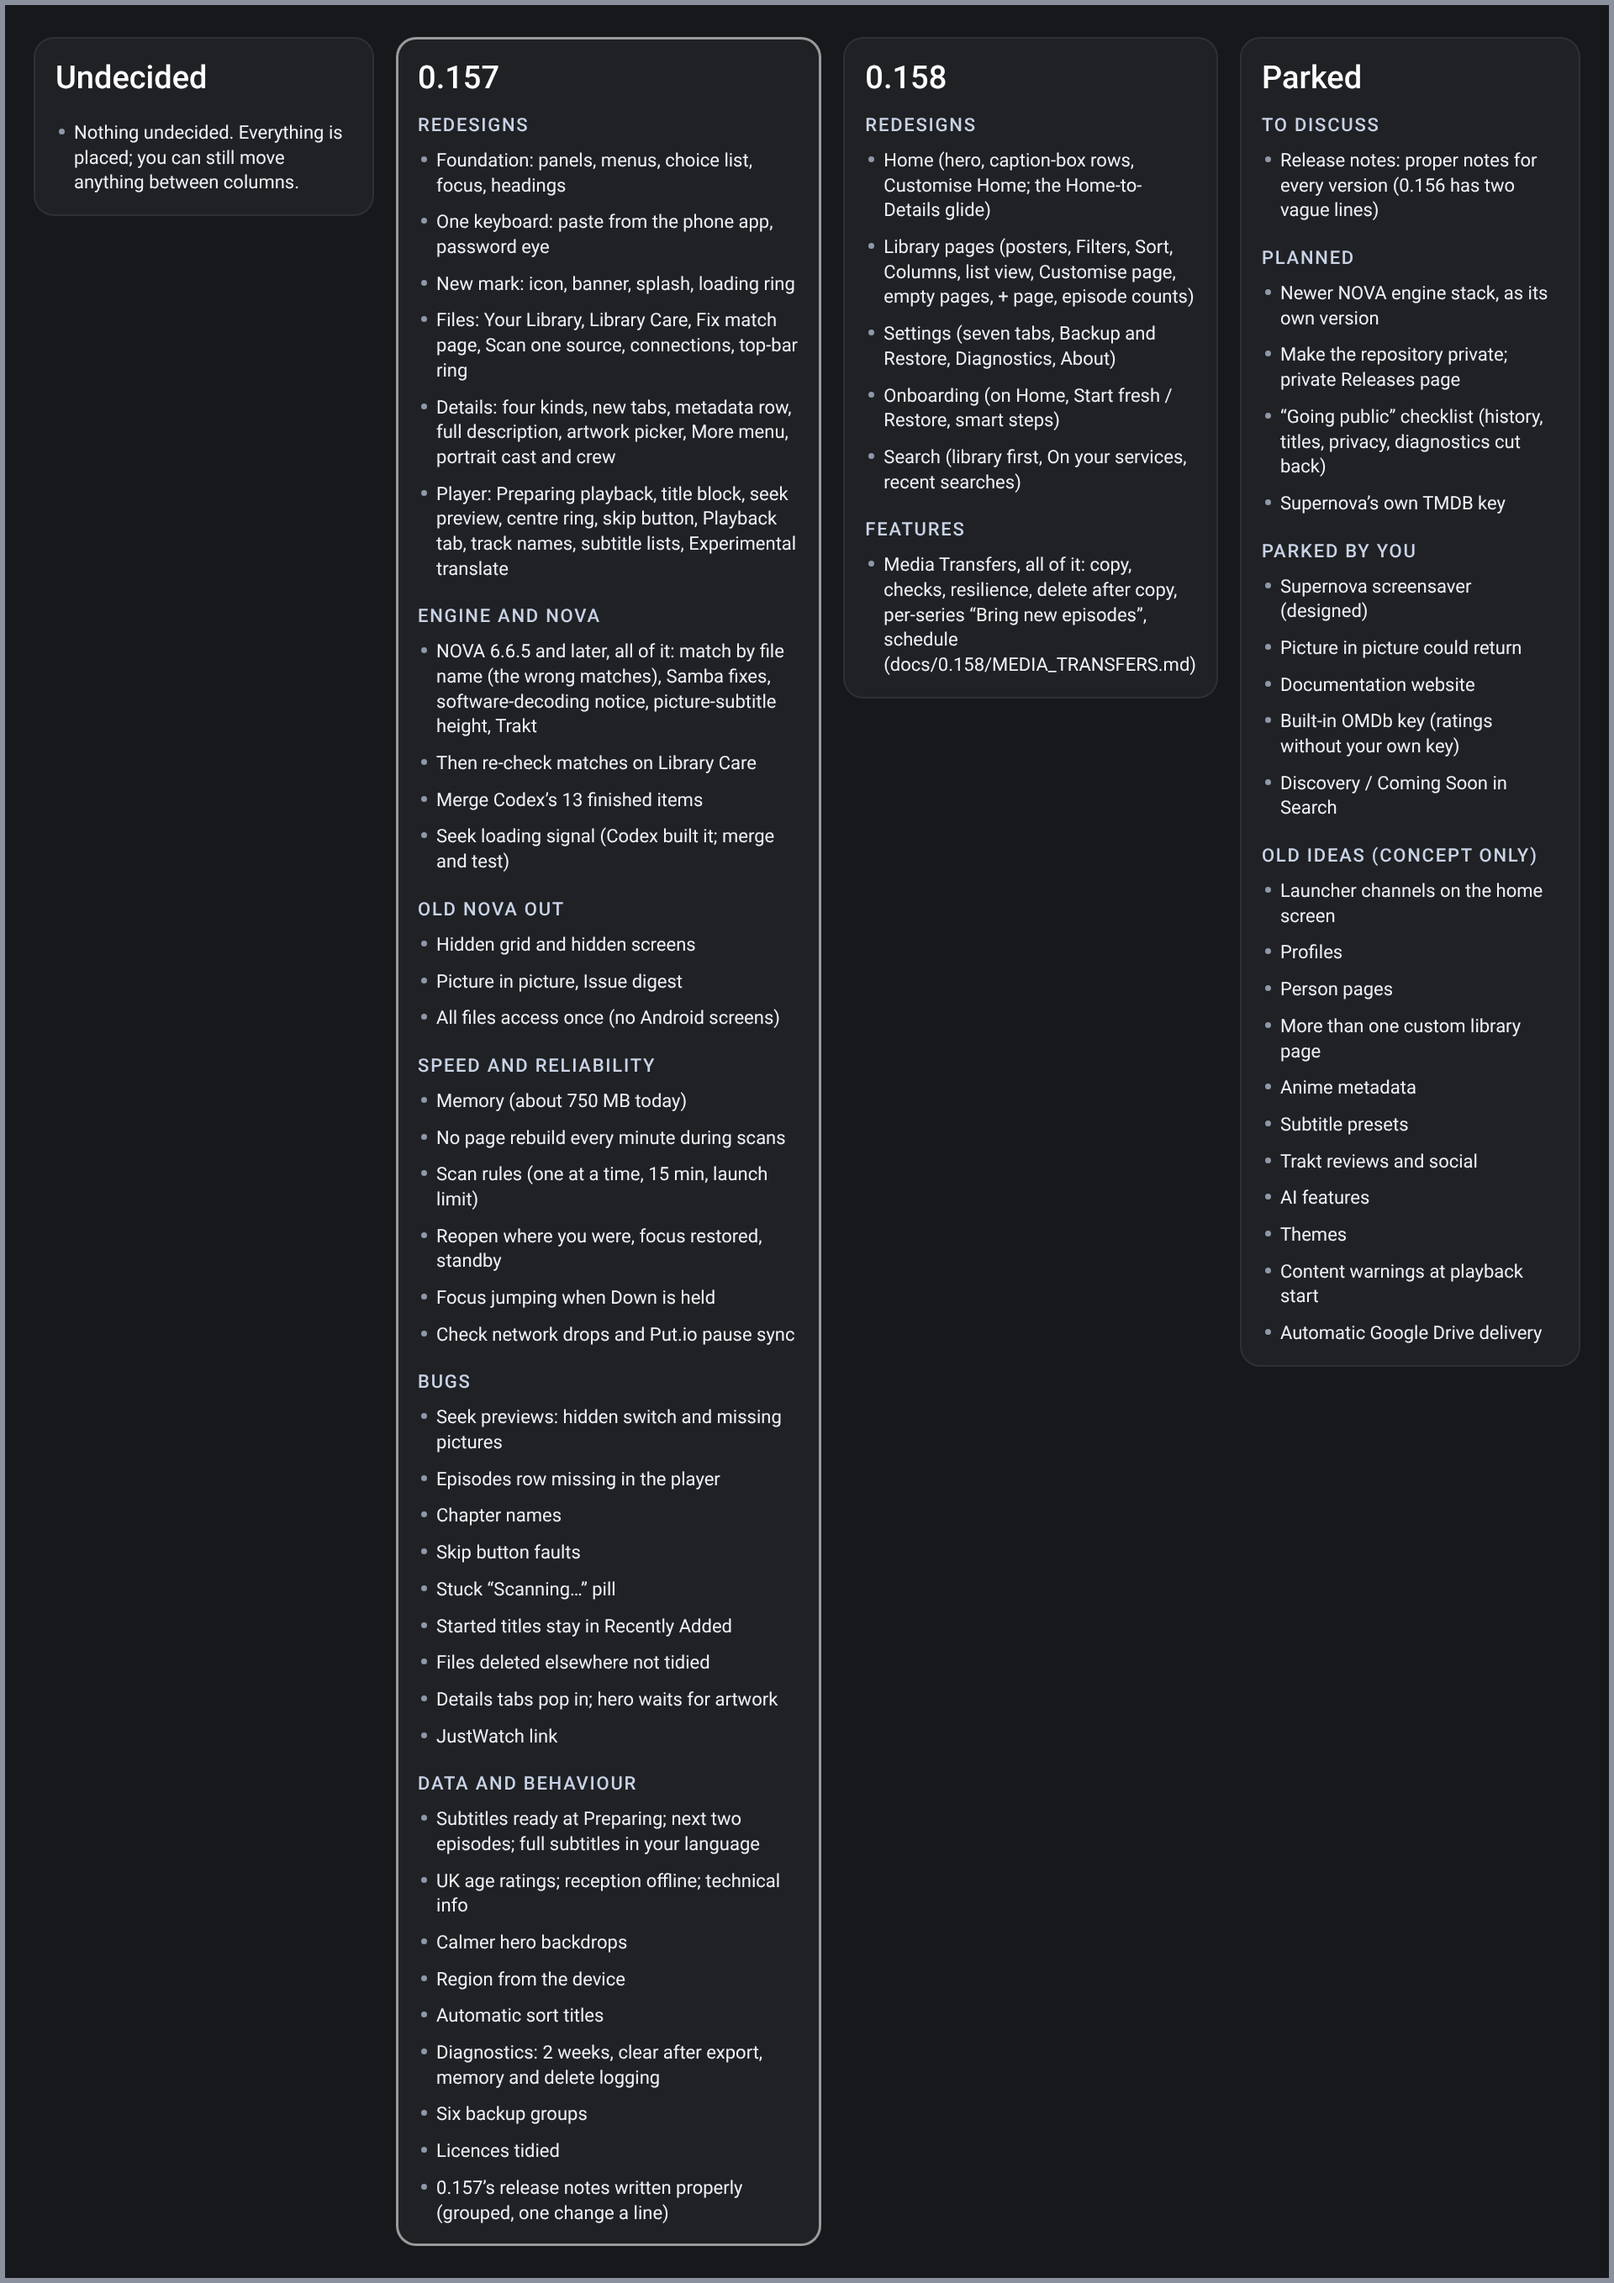
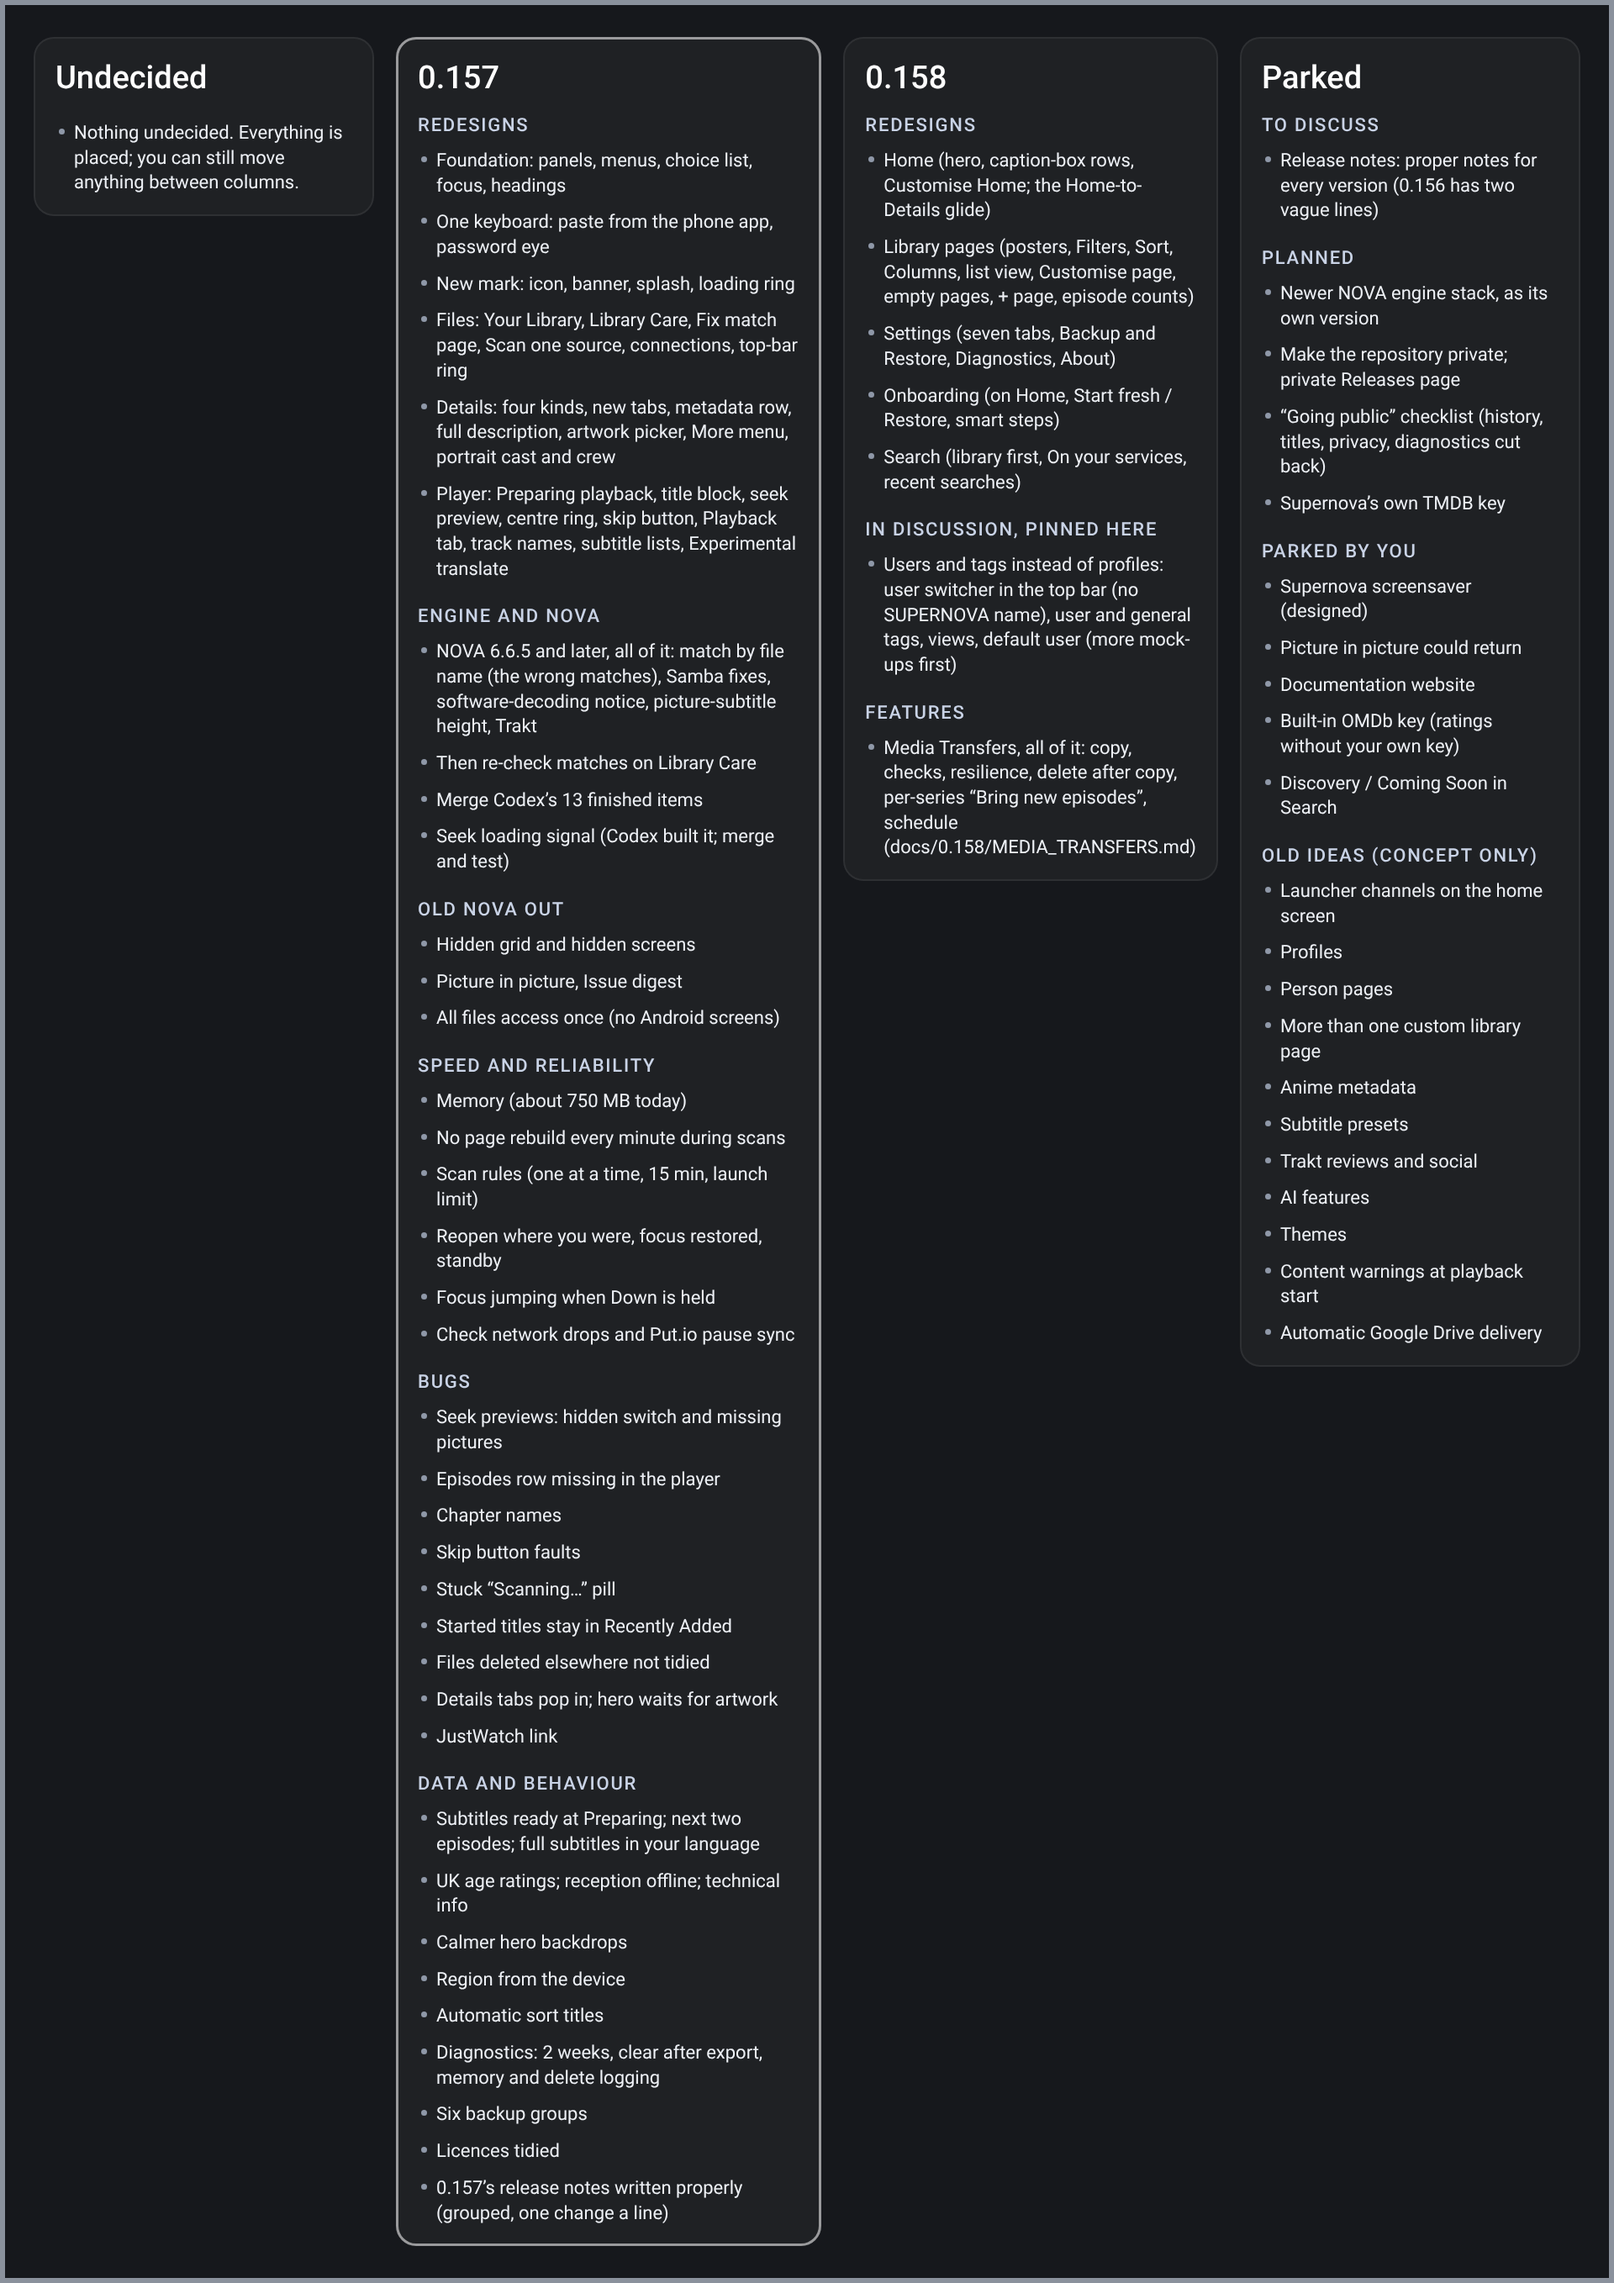
Users and tags pinned for 0.158 (in discussion); whole-flow mock-up rule
Claude-Session: https://claude.ai/code/session_01FtDZqamY6pdaUKwc7fqgiA

Changed region(s): [[0.5312, 0.2165, 0.7188, 0.3711]]

diff --git a/docs/0.157/board/render.js b/docs/0.157/board/render.js
@@ -37,6 +37,8 @@ const cols = [
     ['Redesigns', ['Home (hero, caption-box rows, Customise Home; the Home-to-Details glide)', 'Library pages (posters, '
       + 'Filters, Sort, Columns, list view, Customise page, empty pages, + page, episode counts)', 'Settings (seven tabs, Backup and Restore, Diagnostics, About)', 'Onboarding (on Home, Start fresh '
       + '/ Restore, smart steps)', 'Search (library first, On your services, recent searches)']],
+    ['In discussion, pinned here', ['Users and tags instead of profiles: user switcher in the top bar (no SUPERNOVA '
+      + 'name), user and general tags, views, default user (more mock-ups first)']],
     ['Features', ['Media Transfers, all of it: copy, checks, resilience, delete after copy, per-series “Bring new '
       + 'episodes”, schedule (docs/0.158/MEDIA_TRANSFERS.md)']],
   ]],

diff --git a/docs/REVISIT_LATER.md b/docs/REVISIT_LATER.md
@@ -240,3 +240,19 @@ is ever wanted back.
   list's Users group has no "New user" and a typo can't create a stray person; general tags can be made anywhere
   ("New tag"). (b) "Views using general tags" means a user's view may hide or show general tags too (Me hides
   Classics), not only other users' titles. Claude: yes to both; owner to decide.
+- **Owner, 15 Nov (round 4): pinned for 0.158, still in discussion** (more talk and mock-ups before it is final).
+  - **One global icon picker**, extended with new icons for users (two people for Together, rocket, flower …), drawn
+    larger and clearer than in `02`.
+  - **Users are managed only in the user switcher menu** (top bar, reachable from every page except playback):
+    create, edit (name, icon), delete. Everywhere else (long-press, Details › More › Tags) users can only be picked.
+  - **Default user per installation**, changeable: e.g. Together in the living room, the partner in the bedroom;
+    Supernova opens on that user every time.
+  - **Tags show on the Details hero card itself**, not in the tabs below.
+  - Titles can have **many tags** (ticks are multi-select); More › Tags opens the Users and Tags list (yes).
+  - "New tag" opens the one keyboard in its own panel beside the list (the approved keyboard-from-a-panel rule); the
+    new tag is ticked straight away. Possibly an icon for each tag from the same picker (to decide).
+- Still open, in plain words: when a user's view is on (say Me), may it also hide a kind of title, e.g. Classics, as
+  well as other people's titles? Claude: yes.
+- Next mock-up must show the whole flow: user switcher, Edit users and views (list, add, edit with name and icon
+  picker, delete with warning, default user), Details hero with tags, More › Tags, New tag with the keyboard, the
+  select mode for tagging many titles, library Filters with Users and Tags.

diff --git a/CLAUDE.md b/CLAUDE.md
@@ -38,6 +38,9 @@ and how the owner works. **If you are new: read this file, then the "Start here"
   the design) so its edge shows on a dark screen.
 - **Whole picture (owner, 13 Nov 2026):** a mock-up shows the whole panel or page top to bottom, made as tall as needed,
   even if the real screen scrolls: the owner can't critique what they can't see.
+- **Whole flow (owner, 15 Nov 2026):** a mock-up shows every screen the drawn pieces lead to (e.g. a menu's "Edit …"
+  row, what "New tag" opens, the keyboard step), across as many frames or pictures as needed, so the owner never has
+  to ask "and what does that open?".
 - **Fewest mock-ups (owner, 12 Nov 2026; mindful of usage):** one picture covers as many things to assess as can be
   seen together on one screen; never one picture per item. Applying agreed rules (`docs/design/RULES.md`) to an
   approved page needs no mock-up (at most one sample screen); only genuinely new pieces are drawn. With each picture,

diff --git a/docs/0.157/VERSION_PLAN.md b/docs/0.157/VERSION_PLAN.md
@@ -143,6 +143,7 @@ library statistics) arrives with that page; Files is in 0.157, so most do too.
 
 - **NOVA 6.6.5+ back in 0.157 (owner, 15 Nov):** its "match by file name" fix explains the wrong matches, so all of
   NOVA's latest comes in; then re-check matches on Library Care.
+- **Users and tags pinned for 0.158 (owner, 15 Nov), still in discussion** (REVISIT_LATER, Profiles).
 - **Media Transfers: all of it in 0.158 (owner, 15 Nov);** Files in 0.157 without the Transfers tab.
   Decisions gathered in `docs/0.158/MEDIA_TRANSFERS.md`.
 - **0.157 also gets R3 Details** (owner: the layers on the way to watching first). **R1 Home and R2 library pages: 0.158.**
